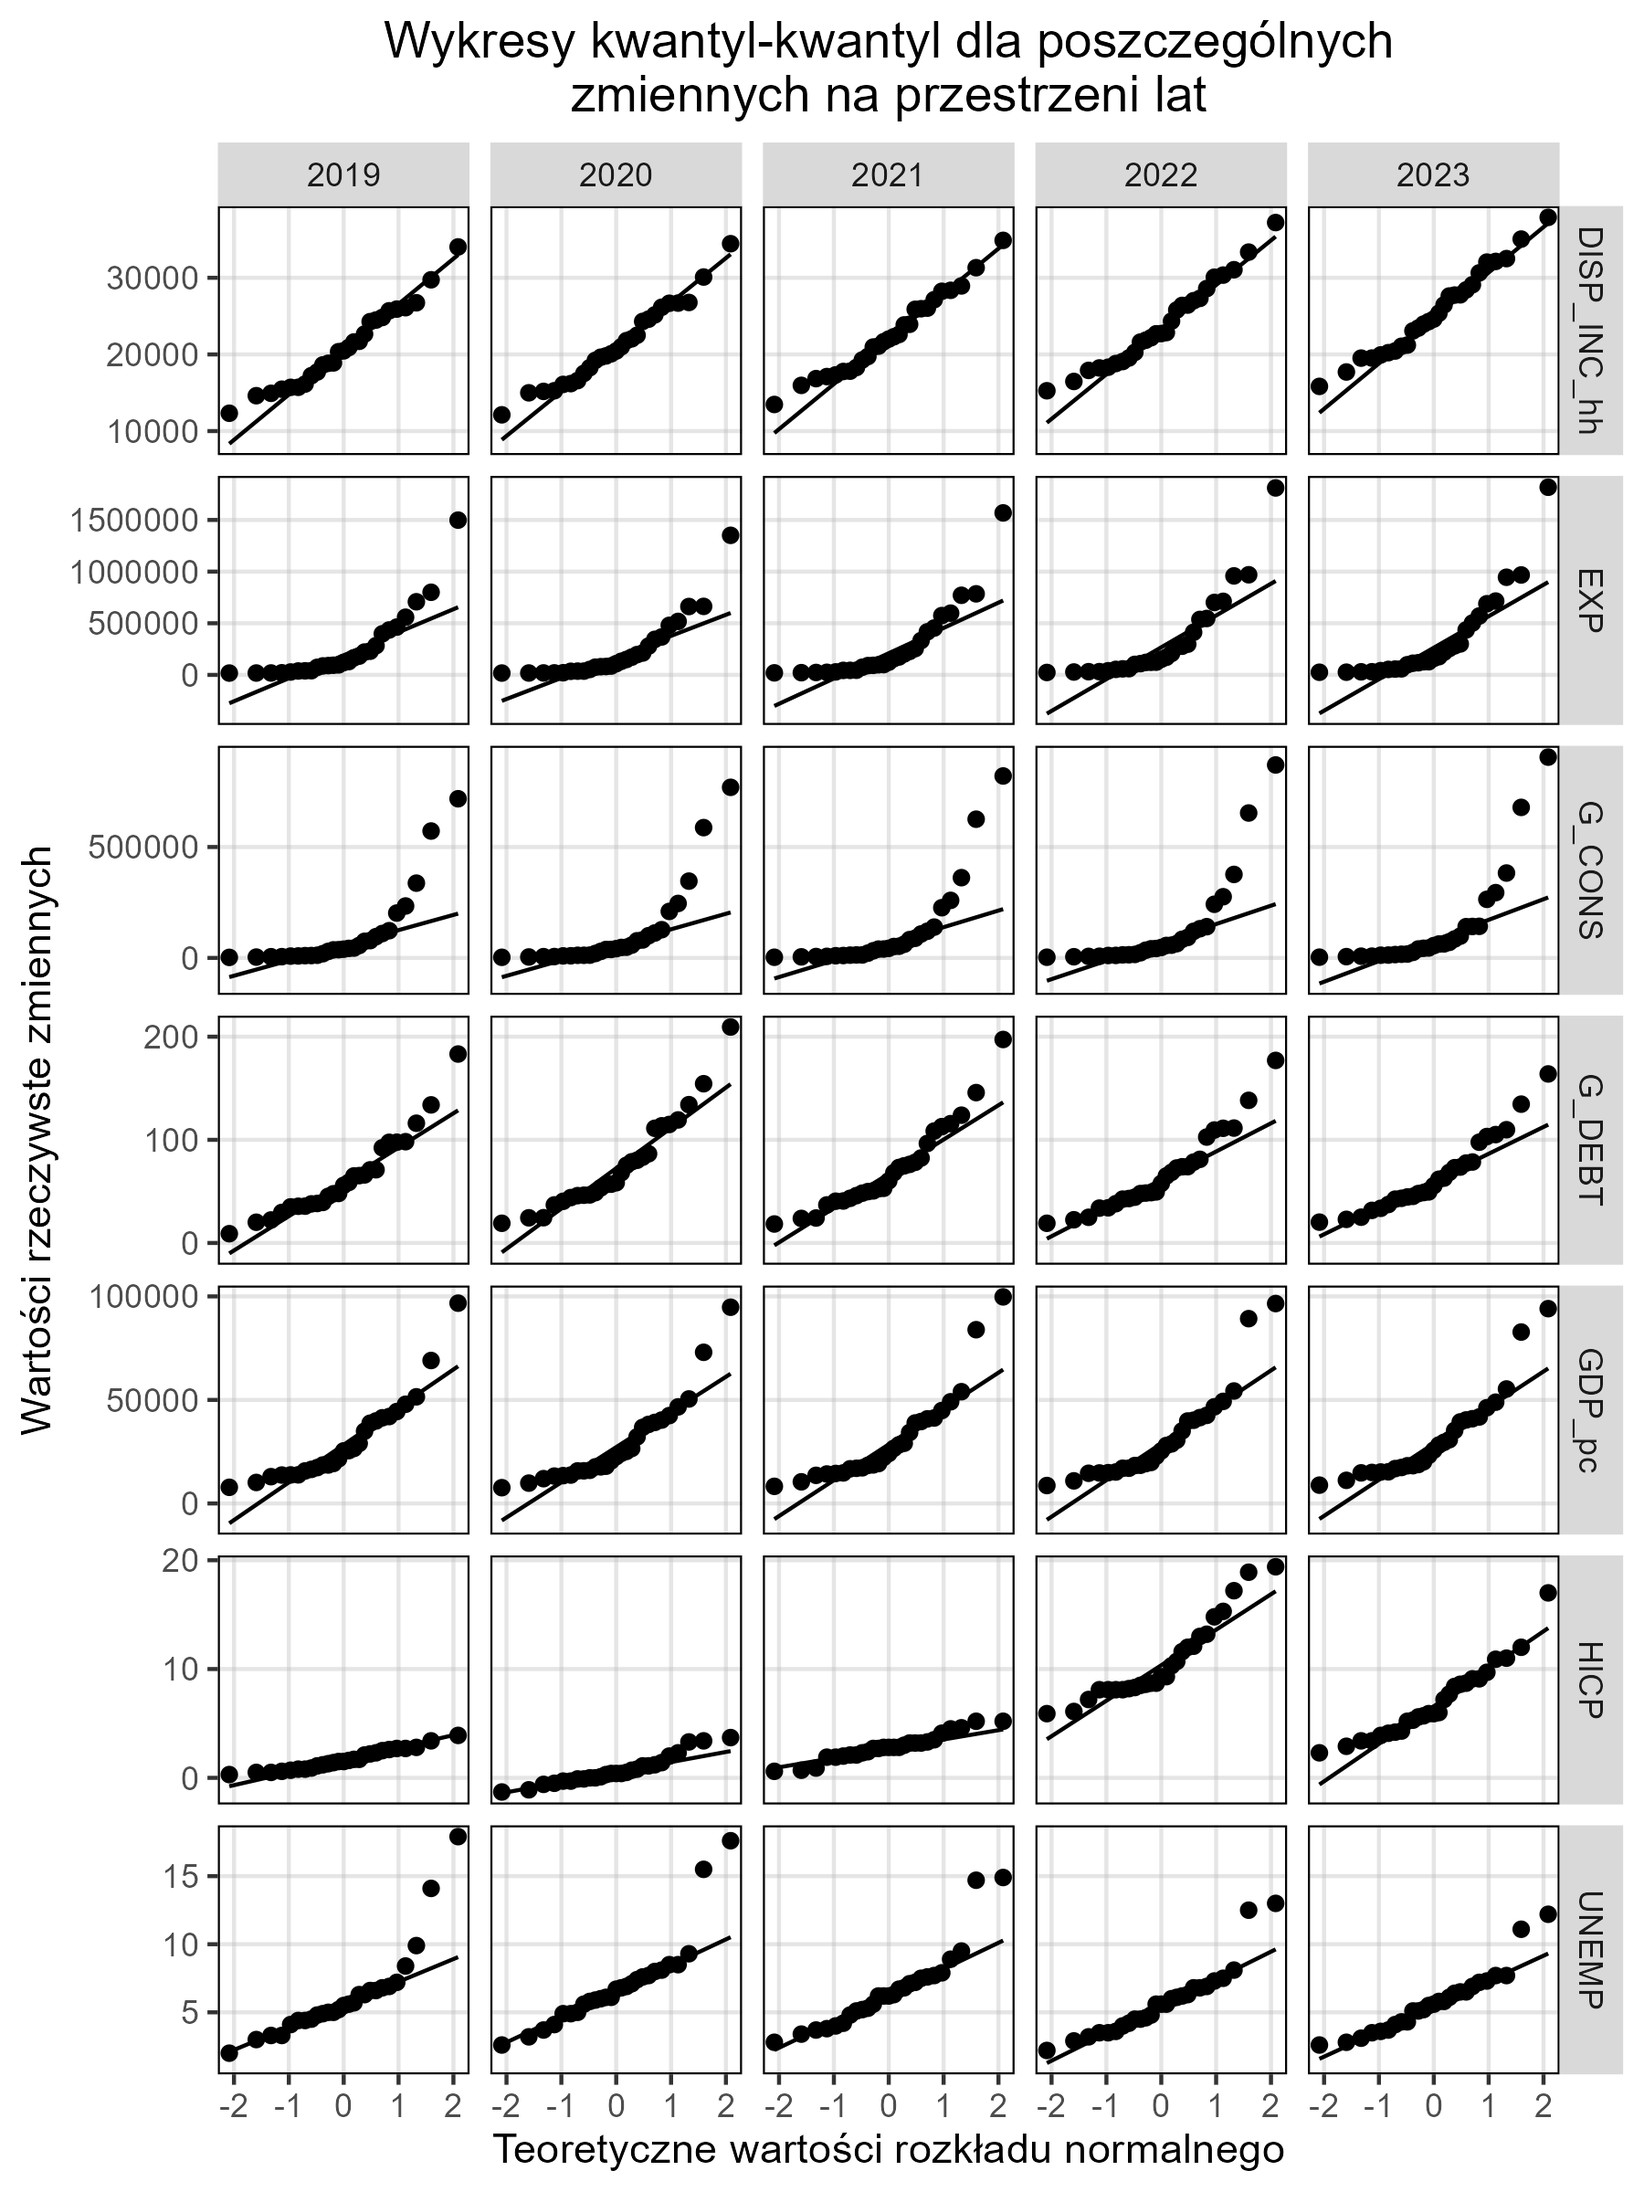
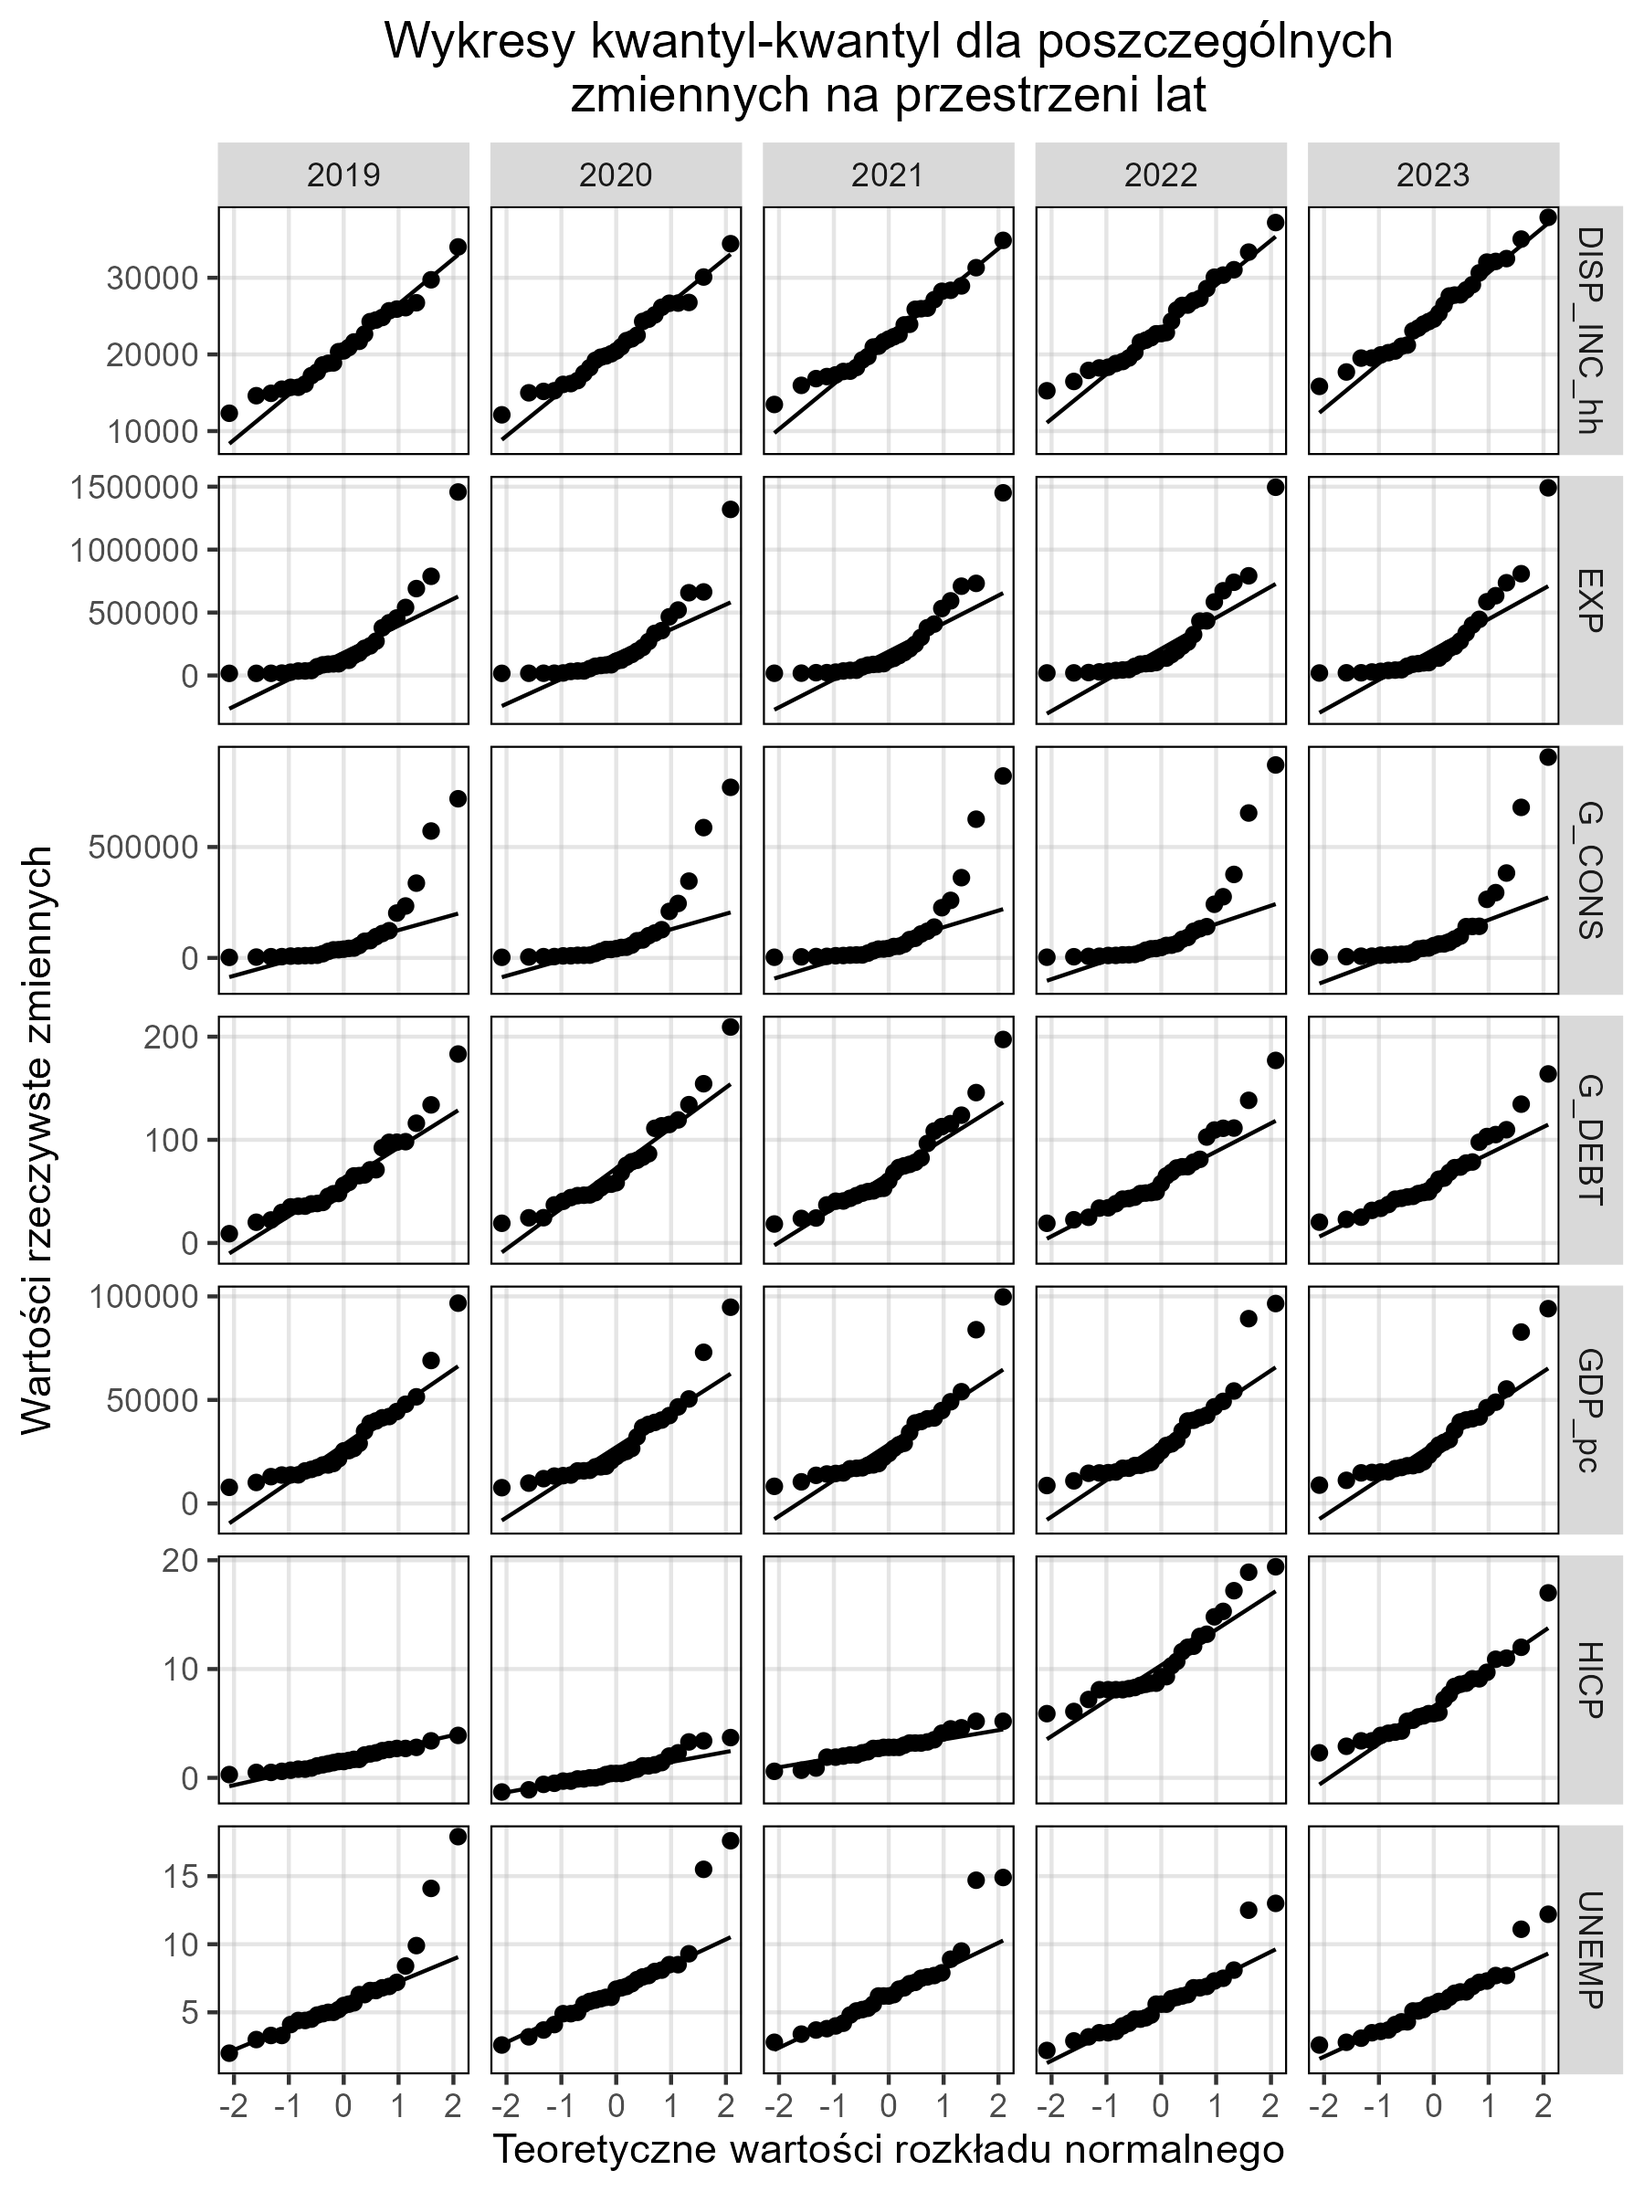
Zmieniono jednostkę miary eksprtu towarów i usług z cen bieżączych na indeksy łańcuchowe 2015. Zmieniono odpowiednie fragmenty kodu i raportu aby odziwerciedlały poprawnie jednostki wszytskich zmiennych. Zmieniono nazwy plików .png wykresów sporządznych dla psczególnych wskaźników na krótsze (nazwy 

diff --git a/Raport.html b/Raport.html
@@ -107,10 +107,10 @@ Dominik Mieszkowski s211015@sggw.edu.pl<br>
 <p>Tak jak wspomnaino wyżej badane zmienne stanowi 7 wskaźników makroekonomicznych: Przychód krajowy brutto na mieszkańca, Stopa bezrobocia, Wskaźnik cen towarów i usług koncumpcyjnych, Wydati rządowe na konsumpcję, Zadłużenie rządowe brutto, Skorygowany dochód brutto do dyspozycji na mieszkańca, Eksport towarów i usług. Szczagóły dotyczące zmiennych przedstawiono poniżej</p>
 <table class="table">
 <colgroup>
-<col style="width: 8%">
-<col style="width: 57%">
 <col style="width: 24%">
-<col style="width: 8%">
+<col style="width: 24%">
+<col style="width: 24%">
+<col style="width: 26%">
 </colgroup>
 <thead>
 <tr class="header">
@@ -123,13 +123,13 @@ Dominik Mieszkowski s211015@sggw.edu.pl<br>
 <tbody>
 <tr class="odd">
 <td style="text-align: left;">GDP_pc</td>
-<td style="text-align: left;">Przychód krajowy brutto na jednego miszkańca</td>
-<td style="text-align: left;">EUR, ceny bieżące</td>
+<td style="text-align: left;">Przychód krajowy brutto na miszkańca</td>
+<td style="text-align: left;">wolumeny łańcuchowo powiązane (2015), euro na mieszkańca</td>
 <td style="text-align: left;">tipsna40</td>
 </tr>
 <tr class="even">
 <td style="text-align: left;">UNEMP</td>
-<td style="text-align: left;">Stoba bezrobocia</td>
+<td style="text-align: left;">Stopa bezrobocia</td>
 <td style="text-align: left;">%</td>
 <td style="text-align: left;">tps00203</td>
 </tr>
@@ -142,7 +142,7 @@ Dominik Mieszkowski s211015@sggw.edu.pl<br>
 <tr class="even">
 <td style="text-align: left;">G_CONS</td>
 <td style="text-align: left;">Wydatki rządowe na konsumpcję</td>
-<td style="text-align: left;">mln EUR, ceny bieżące</td>
+<td style="text-align: left;">milion euro, ceny bieżące</td>
 <td style="text-align: left;">tec00010</td>
 </tr>
 <tr class="odd">
@@ -154,13 +154,13 @@ Dominik Mieszkowski s211015@sggw.edu.pl<br>
 <tr class="even">
 <td style="text-align: left;">DISP_INC_hh</td>
 <td style="text-align: left;">Skorygowany dochód rozporządzany dochód gospodarstw domowych na jednego mieszkańca</td>
-<td style="text-align: left;">Standard siły nabywczej (PPS 2020)</td>
+<td style="text-align: left;">standard siły nabywczej (PPS 2020)</td>
 <td style="text-align: left;">tec00113</td>
 </tr>
 <tr class="odd">
 <td style="text-align: left;">EXP</td>
 <td style="text-align: left;">Eksport towarów i usług</td>
-<td style="text-align: left;">mln EUR, ceny bieżące</td>
+<td style="text-align: left;">wolumeny łańcuchowo powiązane (2015), milion euro</td>
 <td style="text-align: left;">nama_10_gdp</td>
 </tr>
 </tbody>
@@ -205,7 +205,7 @@ Dominik Mieszkowski s211015@sggw.edu.pl<br>
 <section id="analiza-wizualna" class="level3">
 <h3 class="anchored" data-anchor-id="analiza-wizualna">Analiza wizualna</h3>
 <p>W celu wizualnej ocny nierówności w badanych wskaźnikach makroekonometrycznych pośród krajów Unii Europejskiej przedstawiono na wykresach krzywą Lorenz’a dla poszczególnych zmiennych w poszczecgólnych latach.</p>
-<p><img src="Wykresy/Lorenz/Krzywe%20Lorenza.png" class="img-fluid" alt="Krzywa Lorenz'a"> Analizując powyższy wykres zauważyć można duży stopień nierówności dystrypucji rocznych kwot Eksportu towarów i usług (EXP) oraz Rządowych wydatków na konsumpcję (G_CONS). Należy się tego spodziewać, gdzyż są to kwoty całkowite, zależne w dużej części od wielkości i liczby ludności w badanych krajach.</p>
+<p><img src="Wykresy/Lorenz/Krzywe%20Lorenza.png" class="img-fluid" alt="Krzywa Lorenz’a"> Analizując powyższy wykres zauważyć można duży stopień nierówności dystrypucji rocznych kwot Eksportu towarów i usług (EXP) oraz Rządowych wydatków na konsumpcję (G_CONS). Należy się tego spodziewać, gdzyż są to kwoty całkowite, zależne w dużej części od wielkości i liczby ludności w badanych krajach.</p>
 <p>Co ciekawe współczynniki relatywne względem wielkości populacjii krajów, jak np. Stopa bezrobocia (UNEMP) czy Dochody gospodarstw domowych do dyspozycji na mieszkańca (DISP_INC_hh) wykazują się stosunkowo małym zróżnicowaniem pomimo wydarzeń z analizowanego okresu.</p>
 <p>Analizując wykresy nie można stwierdzić zauważalnego wpływu czasu na nierówność w poszczególnych wskaźnikach makroekonometrycznych na przestrzeni krajów Unii Europejskiej. Można zatem wnioskować, że wpływy wydarzeń z badanych 5 lat na gospodarki poszczególnych krajów nie różniły się między sobą na tyle aby w znaczący sposób pogłębć albo zniwelować różnice ekonomiczne między krajami Unii Europejskiej.</p>
 </section>
@@ -217,22 +217,22 @@ Dominik Mieszkowski s211015@sggw.edu.pl<br>
 <div class="cell">
 <div class="cell-output cell-output-stdout">
 <pre><code>     DISP_INC_hh    EXP G_CONS G_DEBT GDP_pc  UNEMP
-2019      0.1361 0.5883 0.6746 0.3186 0.3347 0.2478
-2020      0.1351 0.5875 0.6740 0.3071 0.3429 0.2189
-2021      0.1274 0.5825 0.6722 0.2992 0.3422 0.2176
-2022      0.1269 0.5744 0.6696 0.2943 0.3371 0.2225
-2023      0.1218 0.5732 0.6618 0.2866 0.3289 0.2054</code></pre>
+2019      0.1361 0.5900 0.6746 0.3186 0.3347 0.2478
+2020      0.1351 0.5878 0.6740 0.3071 0.3429 0.2189
+2021      0.1274 0.5847 0.6722 0.2992 0.3422 0.2176
+2022      0.1269 0.5793 0.6696 0.2943 0.3371 0.2225
+2023      0.1218 0.5778 0.6618 0.2866 0.3289 0.2054</code></pre>
 </div>
 </div>
 <p>Indeks nierówności Kukuły:</p>
 <div class="cell">
 <div class="cell-output cell-output-stdout">
 <pre><code>     DISP_INC_hh    EXP G_CONS G_DEBT GDP_pc  UNEMP
-2019      0.0069 0.1484 0.2094 0.0397 0.0464 0.0308
-2020      0.0068 0.1468 0.2112 0.0369 0.0498 0.0231
-2021      0.0060 0.1434 0.2101 0.0351 0.0503 0.0209
-2022      0.0060 0.1367 0.2089 0.0335 0.0484 0.0211
-2023      0.0054 0.1361 0.2032 0.0314 0.0452 0.0170</code></pre>
+2019      0.0069 0.1488 0.2094 0.0397 0.0464 0.0308
+2020      0.0068 0.1460 0.2112 0.0369 0.0498 0.0231
+2021      0.0060 0.1438 0.2101 0.0351 0.0503 0.0209
+2022      0.0060 0.1385 0.2089 0.0335 0.0484 0.0211
+2023      0.0054 0.1374 0.2032 0.0314 0.0452 0.0170</code></pre>
 </div>
 </div>
 <p>Analiza wartości indeksów nieróności w czasie potwierdza wnioski wysnute z analizy krzywych Lorenza. Eksport towarów i usług (EXP) oraz Rządowe wydatki na konsumpcję (G_CONS) charakteryzują się najwyższymi wartościami obydwu indeksów nierówności: odpowiednio ok 0.57-0.58 i 0.66-0.67 indeksu Gini’ego oraz ok. 0.13-0.15 i 0.20 - 0.21 indeksu Kukuły. Wartości zdają się wykazywać trend spadkowy, jednak zmiany są stosunkowo niewielkie i ciężko na ich podstawie wysnuć wnioski o istotnych zmianach w dystrybucji wartości tych wskaźników pośród krajów Unii Europejskiej.</p>
@@ -261,7 +261,6 @@ Dominik Mieszkowski s211015@sggw.edu.pl<br>
 </section>
 <section id="podsumowanie" class="level2">
 <h2 class="anchored" data-anchor-id="podsumowanie">Podsumowanie</h2>
-<p>The <code>echo: false</code> option disables the printing of code (only output is displayed).</p>
 </section>
 </section>
 
